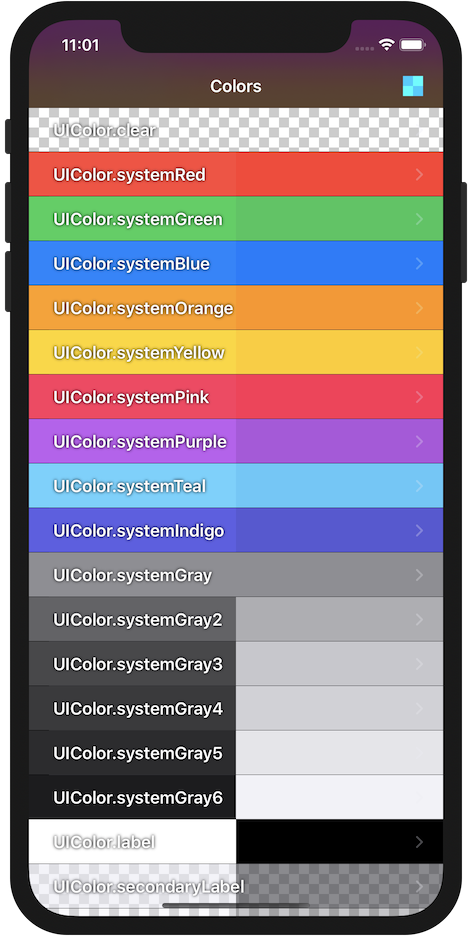
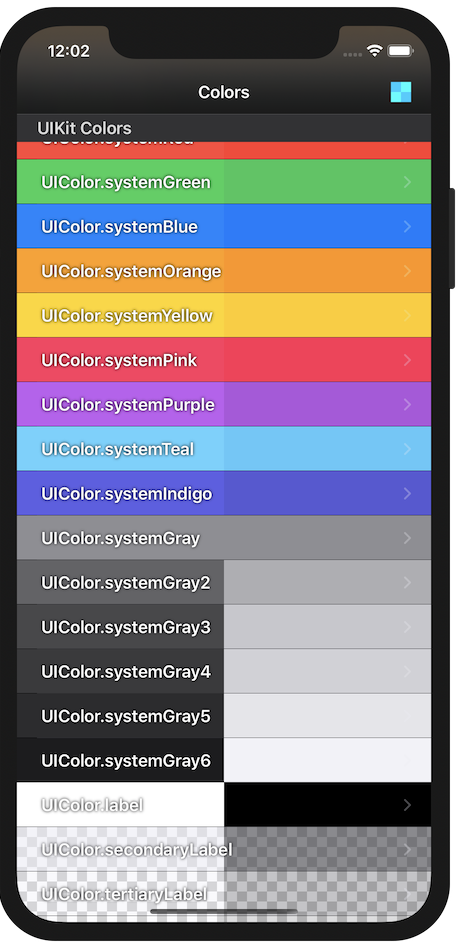
Update README and add detail screenshot

diff --git a/README.md b/README.md
@@ -1,4 +1,4 @@
 # Colors
-View all the system-defined colors you can use in your SwiftUI app.
+Browse all the system-defined colors you can use in your SwiftUI app. Compare colors side by side as they appear in light and dark mode.
 
-![](screenshot.png)
+![](screenshot.png) ![](screenshot2.png)
